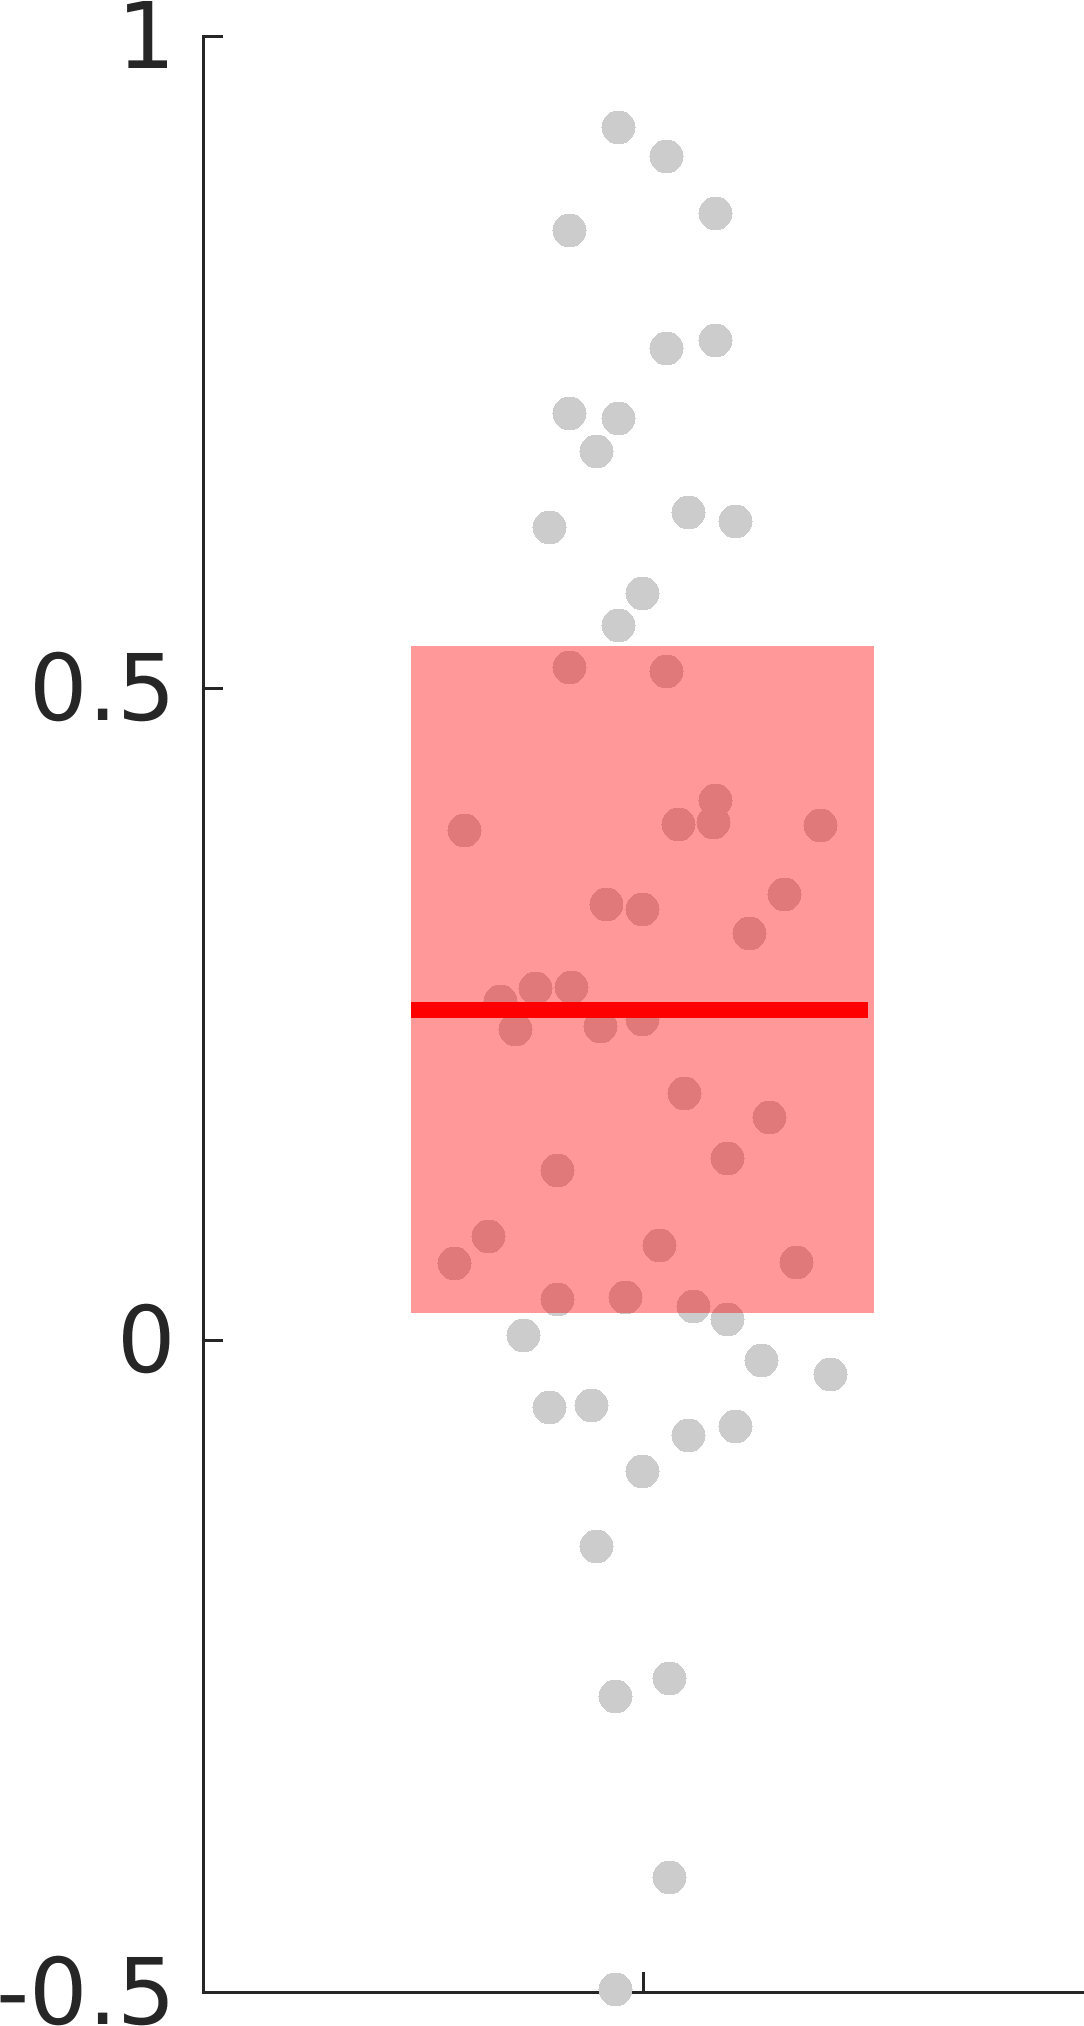
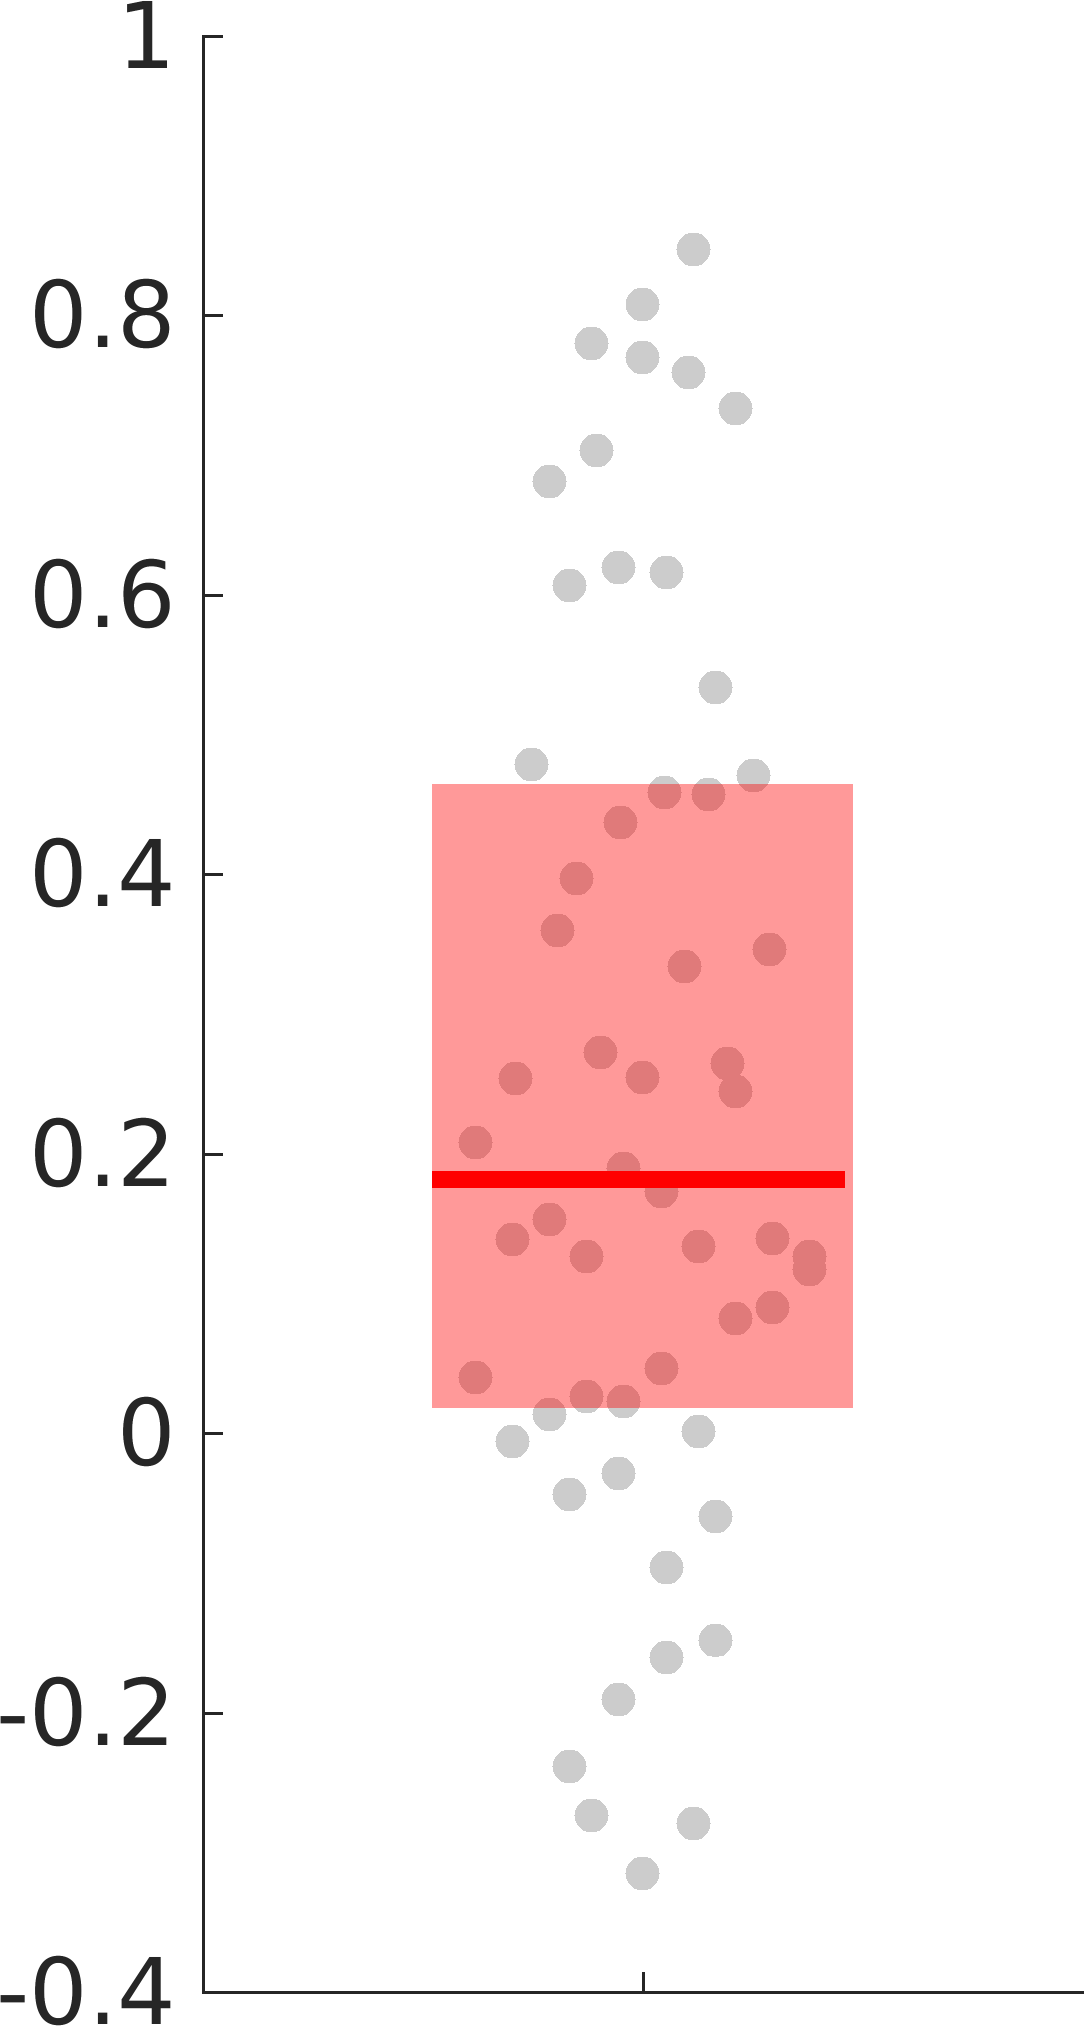
added PRO prediction effect size plots

diff --git a/source/in_ctrl/ccm_pro_opt_cv_fmri_in_gm.m b/source/in_ctrl/ccm_pro_opt_cv_fmri_in_gm.m
@@ -25,7 +25,11 @@ if(proj.flag.clean_build)
     eval(['! mkdir ',proj.path.ctrl.in_pro_opt_mdl]);
 end
 
-%% ----------------------------------------
+
+logger(['****************************************'],proj.path.logfile);
+logger([' Analyze PRO fits (VALENCE) '],proj.path.logfile);
+logger(['****************************************'],proj.path.logfile);
+
 %% ----------------------------------------
 %% VALENCE inter-subject PRO predictions
 affect_name = 'v';
@@ -38,11 +42,69 @@ affect_name = 'v';
 measures = [];
 predictors = [];
 subjects = [];
-for i=1:numel(Nsbjs)
-   measures = [measures;zscore(pro_all(:,i))];
-   predictors = [predictors;zscore(pro_all_out(:,i))];
-   subjects = [subjects;repmat(i,Ntrials,1)];
+
+sig_cnt = 1;
+non_cnt = 1;
+
+for i=1:Nsbjs
+
+    pa = zscore(pro_all(:,i));
+    pao = zscore(pro_all_out(:,i));
+
+    measures = [measures;pa];
+    predictors = [predictors;pao];%zscore(pro_all_out(:,i))];
+    subjects = [subjects;repmat(i,Ntrials,1)];
+
+    % fit individual subjects
+    tbl = table(pa,pao,'VariableNames',{'trg','pred'});
+    sbj_mdl_fe = fitlme(tbl,['trg ~ 1 + pred']);
+    [~,~,FE] = fixedEffects(sbj_mdl_fe);
+
+    % Extract data
+    subj = struct();
+    subj.stim = pao;
+    subj.b1 = FE.Estimate(2);
+    subj.b0 = FE.Estimate(1);
+    subj.p1 = FE.pValue(2);
+    subj.p0 = FE.pValue(1);
+
+    if(subj.p1<0.05)
+        sig_subjs{sig_cnt} = subj;
+        sig_cnt = sig_cnt + 1;
+    else
+        non_subjs{non_cnt} = subj;
+        non_cnt = non_cnt + 1;
+    end
+
 end
+
+%% TICKET automoate this decision
+xmin = -3;
+xmax = 3;
+ymin = -2;
+ymax = 2;
+
+figure(1)
+set(gcf,'color','w');
+
+scatter(predictors,measures,10,'MarkerFaceColor',...
+        proj.param.plot.white,'MarkerEdgeColor',...
+        proj.param.plot.light_grey);
+hold on;
+
+if(non_cnt>1)
+    for i=1:numel(non_subjs)
+        plot(sort(non_subjs{i}.stim),sort(non_subjs{i}.stim)*non_subjs{i}.b1+non_subjs{i}.b0,'Color',proj.param.plot.light_grey,'LineWidth',1);
+    end
+end
+
+if(sig_cnt>1)
+    for i=1:numel(sig_subjs)
+        plot(sort(sig_subjs{i}.stim),sort(sig_subjs{i}.stim)*sig_subjs{i}.b1+sig_subjs{i}.b0,'Color',proj.param.plot.dark_grey,'LineWidth',2);
+    end
+end
+
+%% Fit main model
 tbl = table(measures,predictors,subjects,'VariableNames',{'measures','predictors','subjects'});
 mdl_fe = fitlme(tbl,['measures ~ 1 + predictors']);
 mdl_re = fitlme(tbl,['measures ~ 1 + predictors + (predictors|subjects)']);
@@ -52,11 +114,45 @@ if(fe_vs_re.pValue<0.05)
     mdl=mdl_re;
     logger('  ---Random effects matters',proj.path.logfile');
 end
+
+[~,~,FE] = fixedEffects(mdl);
+
+Rsqr = mdl.Rsquared.Adjusted;
+Fsqr = Rsqr/(1-Rsqr);
+logger(['Rsqr_adj=',num2str(Rsqr)],proj.path.logfile);
+logger(['Fsqr=',num2str(Fsqr)],proj.path.logfile);
+
+
+xseq = linspace(xmin,xmax);
+y_hat = FE.Estimate(1) + FE.Estimate(2)*xseq;
+plot(xseq,y_hat,'r-','LineWidth',3);
+
+xlim([xmin,xmax]);
+ylim([ymin,ymax]);
+
+hold off;
+fig = gcf;
+ax = fig.CurrentAxes;
+ax.FontSize = proj.param.plot.axisLabelFontSize;
+
+export_fig pro_summary.png -r300
+eval(['! mv ',proj.path.code,'pro_summary.png ',proj.path.fig, ...
+      'IN_PRO_',affect_name,'_summary.png']);
+
+
+% clean-up 
+close all;
+
+save([proj.path.ctrl.in_pro_opt_mdl,'pro_all_out_',affect_name,'.mat'],'pro_all_out');
+save([proj.path.ctrl.in_pro_opt_mdl,'pro_all_',affect_name,'.mat'],'pro_all');
 save([proj.path.ctrl.in_pro_opt_mdl,'evaluate_pro_',affect_name,'.mat'],'mdl');
 
 
 
-%% ----------------------------------------
+logger(['****************************************'],proj.path.logfile);
+logger([' Analyze PRO fits (AROUSAL) '],proj.path.logfile);
+logger(['****************************************'],proj.path.logfile);
+
 %% ----------------------------------------
 %% AROUSAL inter-subject PRO predictions
 affect_name = 'a';
@@ -69,11 +165,69 @@ affect_name = 'a';
 measures = [];
 predictors = [];
 subjects = [];
-for i=1:numel(Nsbjs)
-   measures = [measures;zscore(pro_all(:,i))];
-   predictors = [predictors;zscore(pro_all_out(:,i))];
-   subjects = [subjects;repmat(i,Ntrials,1)];
+
+sig_cnt = 1;
+non_cnt = 1;
+
+for i=1:Nsbjs
+
+    pa = zscore(pro_all(:,i));
+    pao = zscore(pro_all_out(:,i));
+
+    measures = [measures;pa];
+    predictors = [predictors;pao];%zscore(pro_all_out(:,i))];
+    subjects = [subjects;repmat(i,Ntrials,1)];
+
+    % fit individual subjects
+    tbl = table(pa,pao,'VariableNames',{'trg','pred'});
+    sbj_mdl_fe = fitlme(tbl,['trg ~ 1 + pred']);
+    [~,~,FE] = fixedEffects(sbj_mdl_fe);
+
+    % Extract data
+    subj = struct();
+    subj.stim = pao;
+    subj.b1 = FE.Estimate(2);
+    subj.b0 = FE.Estimate(1);
+    subj.p1 = FE.pValue(2);
+    subj.p0 = FE.pValue(1);
+
+    if(subj.p1<0.05)
+        sig_subjs{sig_cnt} = subj;
+        sig_cnt = sig_cnt + 1;
+    else
+        non_subjs{non_cnt} = subj;
+        non_cnt = non_cnt + 1;
+    end
+
 end
+
+%% TICKET automoate this decision
+xmin = -3;
+xmax = 3;
+ymin = -2;
+ymax = 2;
+
+figure(1)
+set(gcf,'color','w');
+
+scatter(predictors,measures,10,'MarkerFaceColor',...
+        proj.param.plot.white,'MarkerEdgeColor',...
+        proj.param.plot.light_grey);
+hold on;
+
+if(non_cnt>1)
+    for i=1:numel(non_subjs)
+        plot(sort(non_subjs{i}.stim),sort(non_subjs{i}.stim)*non_subjs{i}.b1+non_subjs{i}.b0,'Color',proj.param.plot.light_grey,'LineWidth',1);
+    end
+end
+
+if(sig_cnt>1)
+    for i=1:numel(sig_subjs)
+        plot(sort(sig_subjs{i}.stim),sort(sig_subjs{i}.stim)*sig_subjs{i}.b1+sig_subjs{i}.b0,'Color',proj.param.plot.dark_grey,'LineWidth',2);
+    end
+end
+
+%% Fit main model
 tbl = table(measures,predictors,subjects,'VariableNames',{'measures','predictors','subjects'});
 mdl_fe = fitlme(tbl,['measures ~ 1 + predictors']);
 mdl_re = fitlme(tbl,['measures ~ 1 + predictors + (predictors|subjects)']);
@@ -83,4 +237,38 @@ if(fe_vs_re.pValue<0.05)
     mdl=mdl_re;
     logger('  ---Random effects matters',proj.path.logfile');
 end
+
+[~,~,FE] = fixedEffects(mdl);
+
+Rsqr = mdl.Rsquared.Adjusted;
+Fsqr = Rsqr/(1-Rsqr);
+logger(['Rsqr_adj=',num2str(Rsqr)],proj.path.logfile);
+logger(['Fsqr=',num2str(Fsqr)],proj.path.logfile);
+
+
+xseq = linspace(xmin,xmax);
+y_hat = FE.Estimate(1) + FE.Estimate(2)*xseq;
+plot(xseq,y_hat,'r-','LineWidth',3);
+
+xlim([xmin,xmax]);
+ylim([ymin,ymax]);
+
+hold off;
+fig = gcf;
+ax = fig.CurrentAxes;
+ax.FontSize = proj.param.plot.axisLabelFontSize;
+
+export_fig pro_summary.png -r300
+eval(['! mv ',proj.path.code,'pro_summary.png ',proj.path.fig, ...
+      'IN_PRO_',affect_name,'_summary.png']);
+
+% clean-up 
+close all;
+
+save([proj.path.ctrl.in_pro_opt_mdl,'pro_all_out_',affect_name,'.mat'],'pro_all_out');
+save([proj.path.ctrl.in_pro_opt_mdl,'pro_all_',affect_name,'.mat'],'pro_all');
 save([proj.path.ctrl.in_pro_opt_mdl,'evaluate_pro_',affect_name,'.mat'],'mdl');
+
+
+
+

diff --git a/source/analysis/analyze_ex_emg_v.m b/source/analysis/analyze_ex_emg_v.m
@@ -20,11 +20,11 @@ if(proj.flag.clean_build)
 end
 
 logger(['*************************************************'],proj.path.logfile);
-logger(['Analyzing IN (Zygomaticus)          '],proj.path.logfile);
+logger(['Analyzing EX (Zygomaticus)          '],proj.path.logfile);
 logger(['*************************************************'],proj.path.logfile);
 calc_ex_emg_v(proj,'zygo');
 
 logger(['*************************************************'],proj.path.logfile);
-logger(['Analyzing IN (Corrugator)          '],proj.path.logfile);
+logger(['Analyzing EX (Corrugator)          '],proj.path.logfile);
 logger(['*************************************************'],proj.path.logfile);
 calc_ex_emg_v(proj,'corr');

diff --git a/run_project.m b/run_project.m
@@ -110,7 +110,7 @@ init_project;
 % 
 % %% ----------------------------------------
 % %% STEP 7: compare GS vs GM features (see Frontiers 2018 supplemental)
-analyze_mvpa_fmri_ex_gs_vs_gm;
+% analyze_mvpa_fmri_ex_gs_vs_gm;
 % 
 % %% ----------------------------------------
 % %% STEP 8: Analyze EX Physiology Response (compare to brain state)
@@ -219,7 +219,7 @@ analyze_mvpa_fmri_ex_gs_vs_gm;
 % ccm_evc_cv_fmri_in_gm; % compute EVC (cross-validated inter-subj)
 % 
 % %% Compute PRO-values
-% ccm_pro_opt_cv_fmri_in_gm;
+ccm_pro_opt_cv_fmri_in_gm;
 % 
 % %% ------------------------------------------------------------
 % %% STEP 2: Identify CCM neural correlates

diff --git a/source/analysis/analyze_mvpa_fmri_ex_gs_vs_gm.m b/source/analysis/analyze_mvpa_fmri_ex_gs_vs_gm.m
@@ -140,6 +140,12 @@ for i = 1:numel(subjs)
 
 end
 
+
+save([proj.path.analysis.ex_gs_vs_gm,'v_sig_subjs.mat'],'v_sig_subjs');
+save([proj.path.analysis.ex_gs_vs_gm,'v_sig_subjs.mat'],'v_non_subjs');
+save([proj.path.analysis.ex_gs_vs_gm,'v_sig_subjs.mat'],'a_sig_subjs');
+save([proj.path.analysis.ex_gs_vs_gm,'v_sig_subjs.mat'],'a_non_subjs');
+
 %% format figure axes
 ymin = -3;
 ymax = 3;

diff --git a/source/analysis/analyze_ex_scr_a.m b/source/analysis/analyze_ex_scr_a.m
@@ -222,8 +222,8 @@ fig = gcf;
 ax = fig.CurrentAxes;
 ax.FontSize = proj.param.plot.axisLabelFontSize;
 
-xlabel('SCR Beta Coefficients');
-ylabel('Normative Arousal Scores');
+% xlabel('SCR Beta Coefficients');
+% ylabel('Normative Arousal Scores');
 
 %% ----------------------------------------
 %% explot hi-resolution figure

diff --git a/source/analysis/calc_ex_emg_v.m b/source/analysis/calc_ex_emg_v.m
@@ -202,8 +202,8 @@ fig = gcf;
 ax = fig.CurrentAxes;
 ax.FontSize = proj.param.plot.axisLabelFontSize;
 
-xlabel('EMG Beta Coefficients');
-ylabel('Normative Valence Scores');
+% xlabel('EMG Beta Coefficients');
+% ylabel('Normative Valence Scores');
 
 %% ----------------------------------------
 %% explot hi-resolution figure

diff --git a/source/init_project.m b/source/init_project.m
@@ -283,6 +283,7 @@ proj.param.physio.scr.filt_type = 2;
 %% EMG analysis parameters
 proj.param.physio.emg.filt_low = 500.0; %% reference???
 proj.param.physio.emg.filt_high = 10.0; %% reference???
+proj.param.physio.emg.filt_type = 2;
 
 %% MVPA parameters
 proj.param.mvpa.kernel = 'linear';
